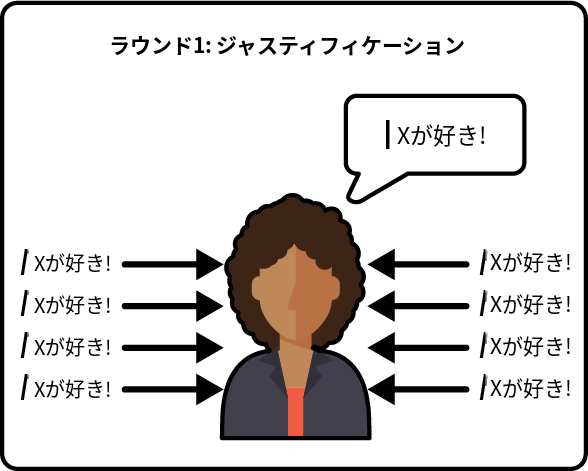
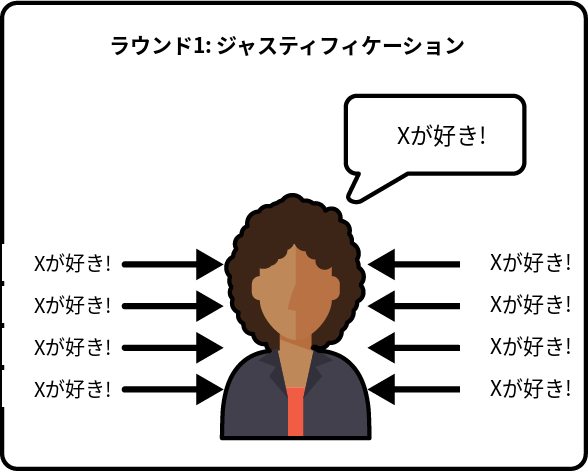
fix(ch15-images): clear leftover italic "I" prefix in speech-bubble labels
For "I like X!", "I vote for X", "I heard y'all like ..." labels, OCR
detected only the trailing portion (e.g. "like X!") and missed the
narrow italic "I" sitting just to the left. The JSON maps did include
the post-"I" variants so the body got translated to "Xが好き!" /
"Fに投票" / "みんな…", but the orphan "I" stayed visible because:
  1. it was outside every OCR bbox, so the mask never covered it; and
  2. restore_borders copied that "outside-of-text" dark pixel back from
     the original after inpainting.

Two changes:
- translate_image.py: add a protect_boxes argument to restore_borders
  and pass __extra_mask_boxes__ in, so any region we intentionally
  hard-masked is not re-restored from the original.
- maet_1506/1518/1525/1526.json: add __extra_mask_boxes__ covering the
  ~28px italic-"I" zone immediately left of each affected OCR bbox.

Affected: maet_1506 (2 fixes), maet_1518 (9), maet_1525 (6),
maet_1526 (6). maet_1502 was already clean — OCR captured the leading
"I" together with "vote".

diff --git a/scripts/translate_image.py b/scripts/translate_image.py
@@ -121,11 +121,15 @@ def restore_borders(
     detections: list[dict],
     dark_thresh: int = 100,
     text_pad: int = 8,
+    protect_boxes: list = None,
 ) -> np.ndarray:
     """Inpainting でぼけた枠線・矢印を原本から復元する。
 
     原本の暗いピクセル (gray < dark_thresh) のうち、OCR テキスト bbox の
     外側にあるものだけを inpainted 画像に上書きコピーする。
+
+    protect_boxes: __extra_mask_boxes__ など、復元を抑止したい領域。
+    OCR が検出できなかった文字（italic I、em ダッシュ等）を再描画しない。
     """
     orig = cv2.imread(original_path)
     gray = cv2.cvtColor(orig, cv2.COLOR_BGR2GRAY)
@@ -139,6 +143,11 @@ def restore_borders(
         y1 = max(0, y1 - text_pad)
         x2 = min(w, x2 + text_pad)
         y2 = min(h, y2 + text_pad)
+        text_zone[y1:y2, x1:x2] = 1
+    for box in (protect_boxes or []):
+        x1, y1, x2, y2 = box
+        x1 = max(0, x1); y1 = max(0, y1)
+        x2 = min(w, x2); y2 = min(h, y2)
         text_zone[y1:y2, x1:x2] = 1
 
     # 枠線マスク: 暗いピクセル & テキスト外
@@ -341,7 +350,7 @@ def translate_image(image_path: str, translation_map: dict, preview: bool = Fals
                 inpainted[y1:y2, x1:x2] = fill_color
 
     # 枠線・矢印の復元（inpainting で発生したボケを原本から上書き修復）
-    inpainted = restore_borders(image_path, inpainted, detections)
+    inpainted = restore_borders(image_path, inpainted, detections, protect_boxes=extra_mask_boxes)
 
     print("[4/4] Drawing Japanese text")
     result = draw_translations(inpainted, regions)
